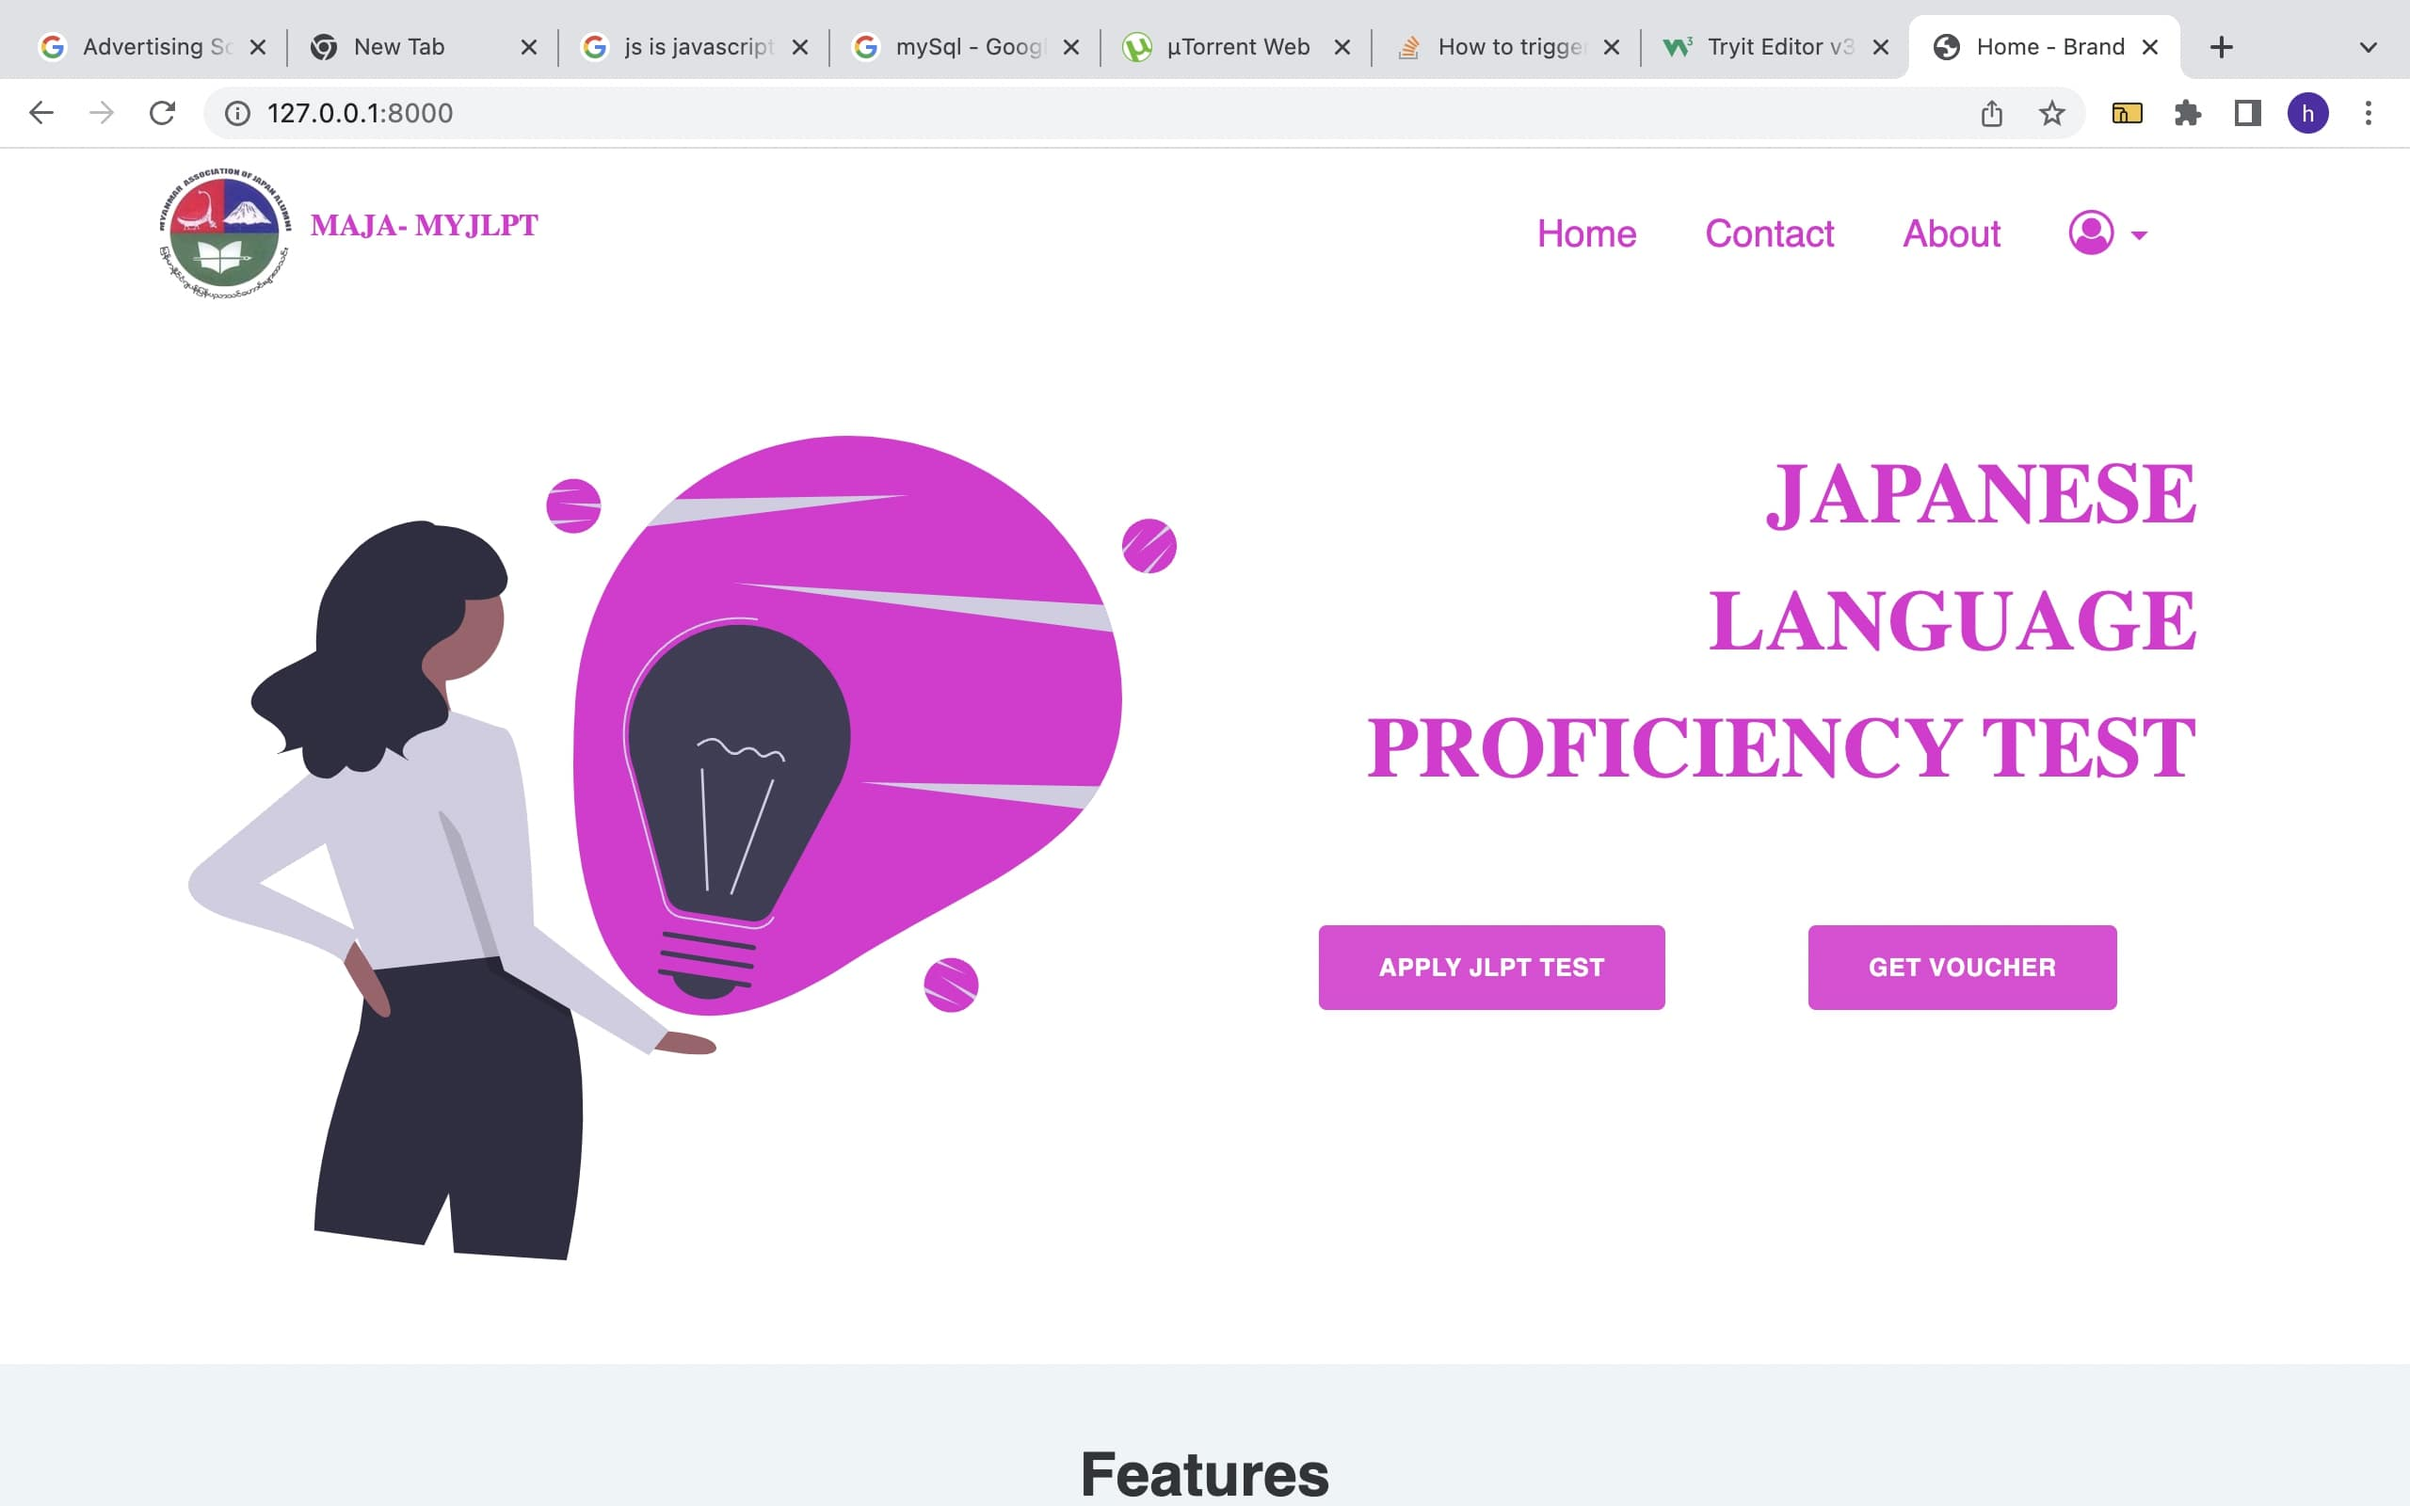
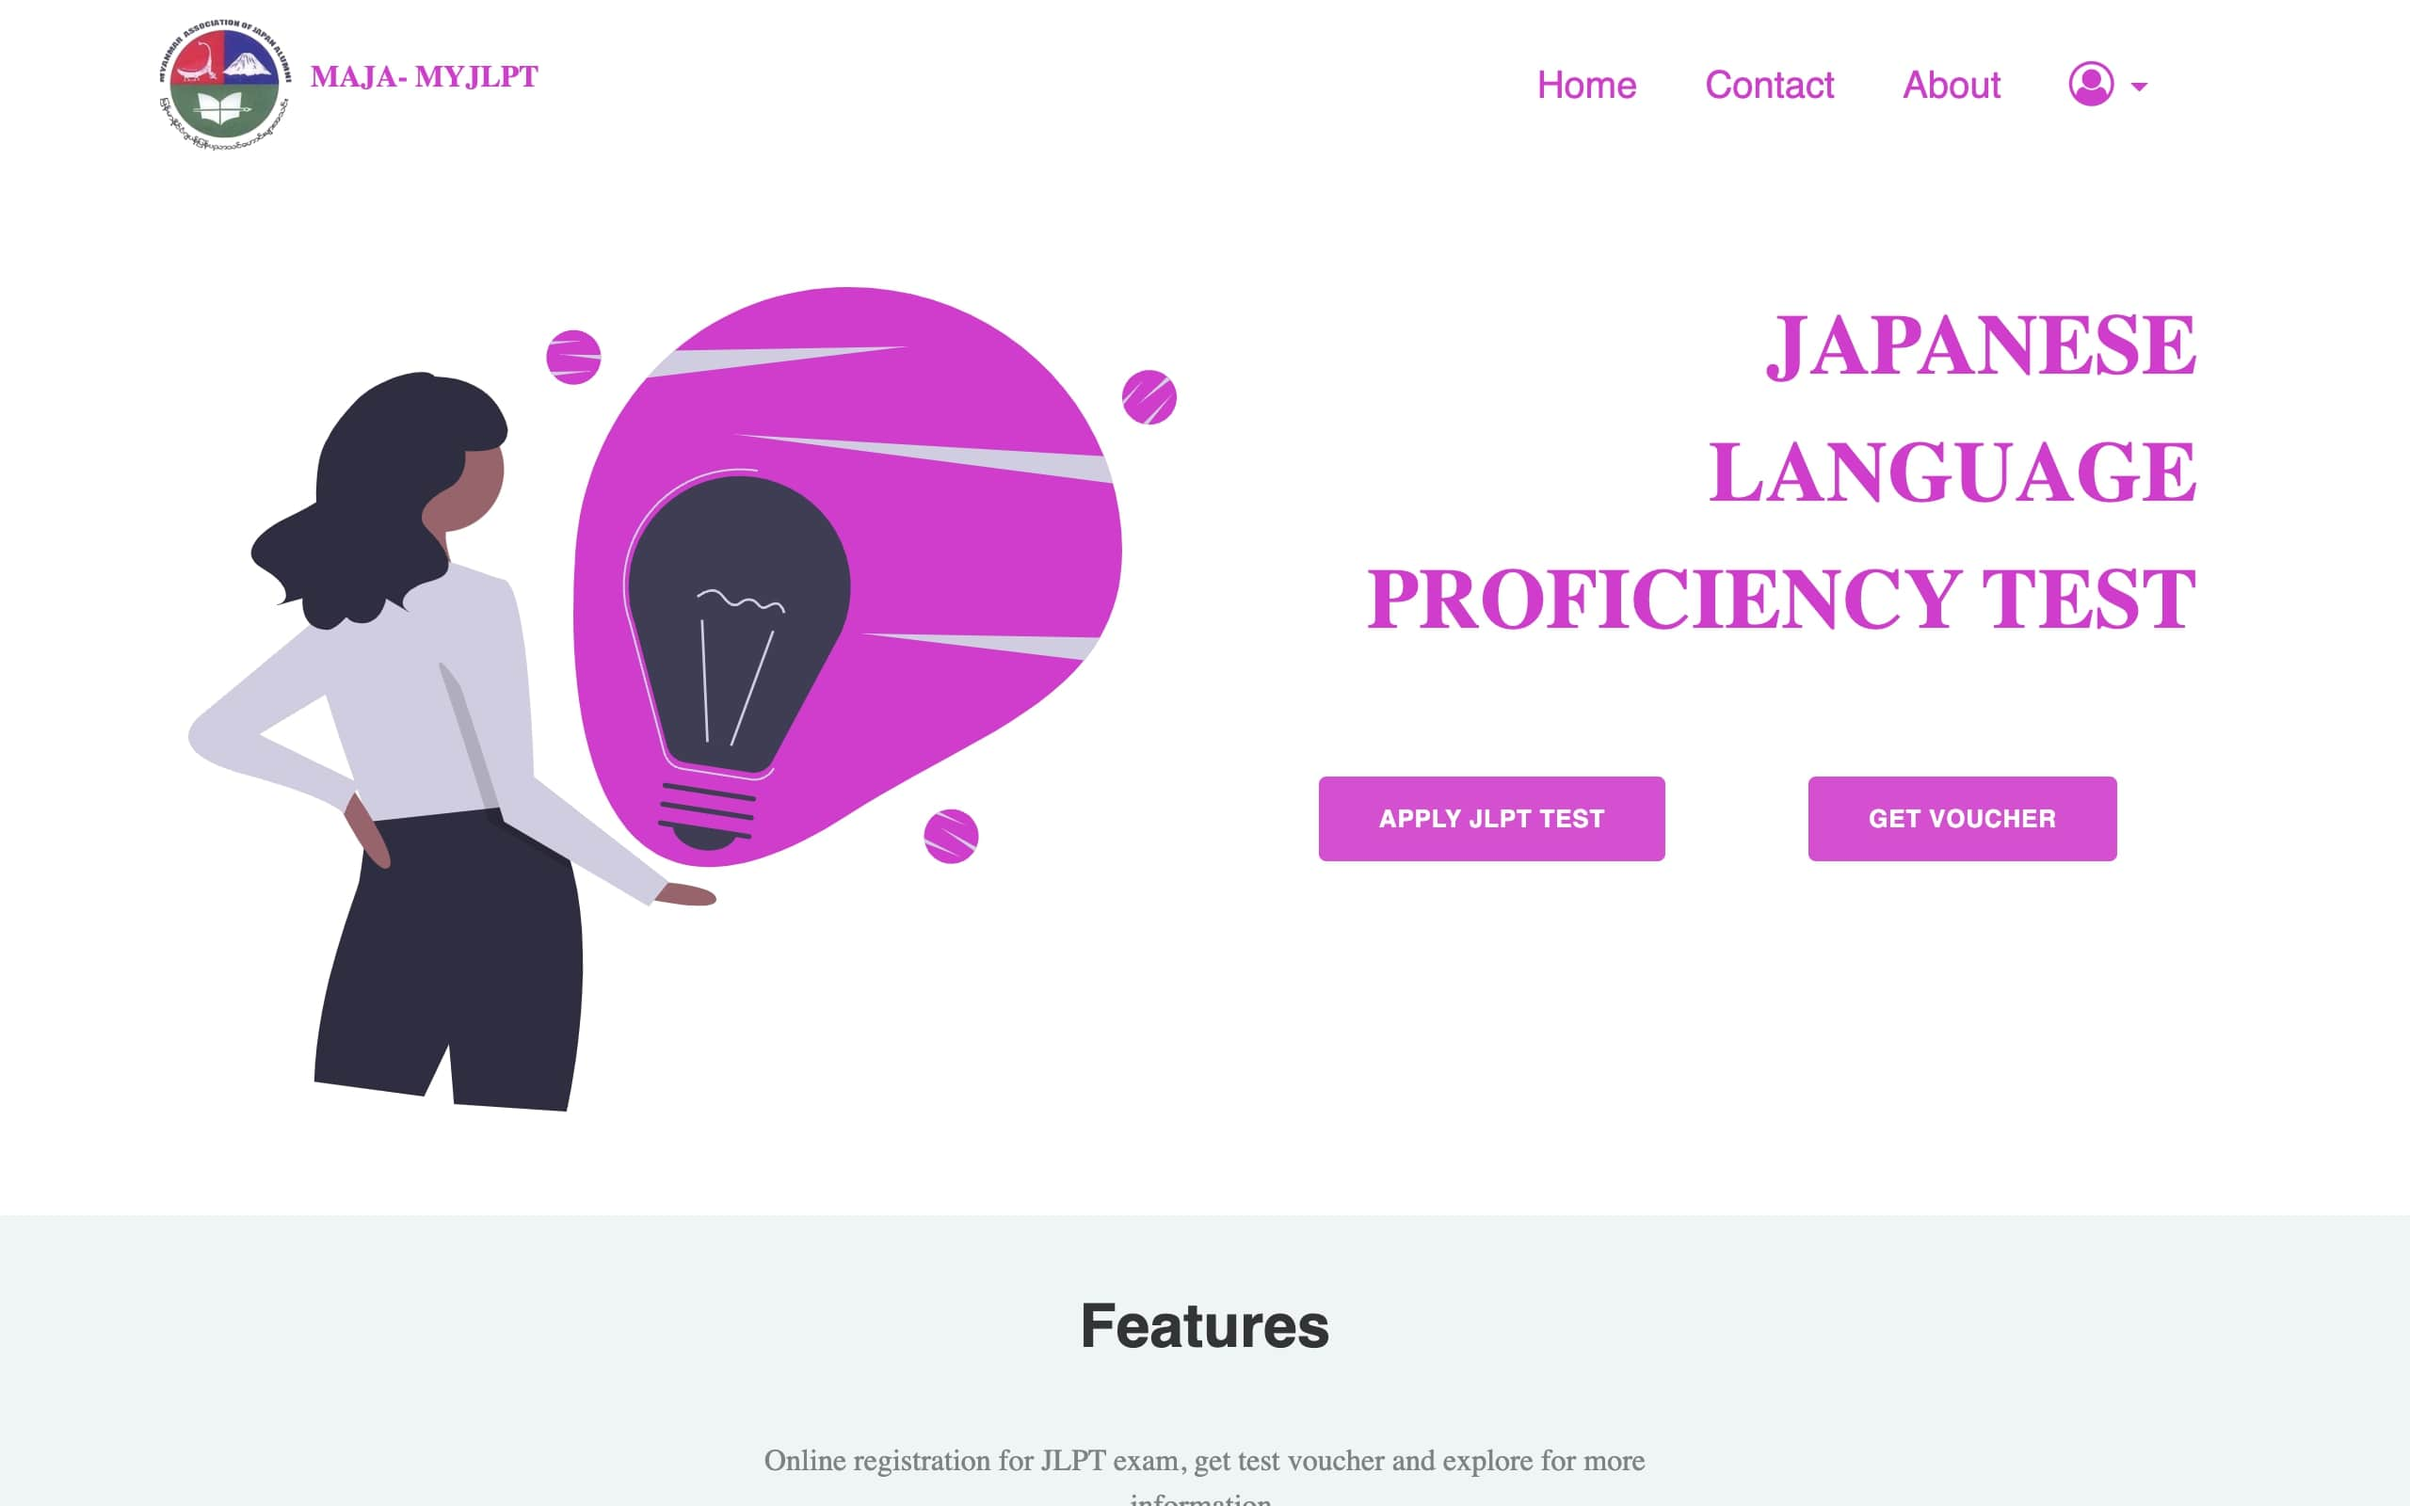
picture fix

diff --git a/tailwind.css b/tailwind.css
@@ -935,6 +935,10 @@ input:checked + .toggle-bg {
   margin-top: 3rem;
 }
 
+.mt-64 {
+  margin-top: 16rem;
+}
+
 .-mt-9 {
   margin-top: -2.25rem;
 }
@@ -985,6 +989,10 @@ input:checked + .toggle-bg {
 
 .mb-6 {
   margin-bottom: 1.5rem;
+}
+
+.mt-72 {
+  margin-top: 18rem;
 }
 
 .mt-96 {
@@ -1565,6 +1573,11 @@ input:checked + .toggle-bg {
 .text-base {
   font-size: 1rem;
   line-height: 1.5rem;
+}
+
+.text-xs {
+  font-size: 0.75rem;
+  line-height: 1rem;
 }
 
 .text-3xl {

diff --git a/index.html b/index.html
@@ -359,6 +359,7 @@
     </div>
 
     <!--my works-->
+    <div class="mt-64 md:hidden"></div>
     <div id="work" class="canvas-area z-40">
       <div class="flex flex-wrap justify-center lg:mt-96">
         <h1
